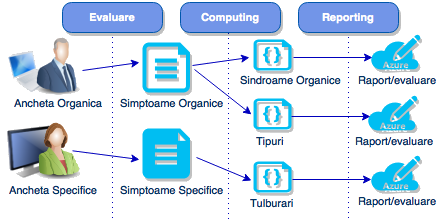
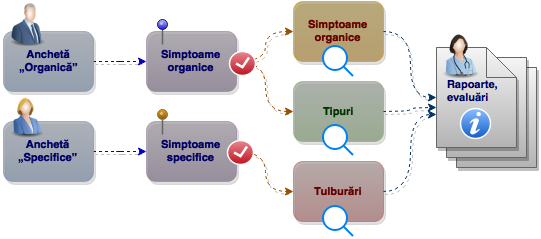
sead

diff --git a/seaddir.html b/seaddir.html
@@ -361,8 +361,8 @@ function intoTable(s, idx) {
 
 function about() {
 	var d = '<DIV style="font:normal 11pt Calibri,Arial; color:#448;padding:4px;">Aceasta aplicatie se bazeaza pe:<br><br><br>DSM–IV TR diagnostic criteria,<BR>American Psychiatric Association<br><br>';
-	d += 'Schema simplificata a aplicatiei:<br><br>';
-	d += '<img style="margin-left:24px;" src="res/sead.png" /><br><br>';
+	d += 'Schema simplificata a aplicatiei:<br>';
+	d += '<img style="margin-left:24px;" src="res/sead.svg" /><br>';
 	d += 'Autor:<BR>Diana Topa, membru al Asociatiei Criminaliste...';
 	curTable = -4;
 	id('out').innerHTML = d;
@@ -491,7 +491,7 @@ var Mng = {
         t.appendChild(b);
         t.oncontextmenu = function(e) { Mng.rClick(e); };
         var D = document.createElement('DIV'); D.contentEditable = true; D.className = 'TtlEdit'; D.innerText = tables[this.tableNum].name;
-        D.onblur = function() { Mng.titleEdit(this, false); }; D.onblur = function() { Mng.titleEdit(this, true); };
+        D.onblur = function() { Mng.titleEdit(this, false); }; D.focus = function() { Mng.titleEdit(this, true); };
         var Dret = document.createElement('DIV'); Dret.appendChild(D); Dret.appendChild(t);
         D = id('out'); if(D.hasChildNodes()) D.removeChild( D.firstChild ); D.appendChild(Dret);
         this.table = t; id('tableName').innerText = tables[this.tableNum].name;

diff --git a/sead.html b/sead.html
@@ -381,8 +381,8 @@ function intoTable(s, idx) {
 
 function about() {
 	var d = '<DIV style="font:normal 11pt Calibri,Arial; color:#448;padding:4px;">Aceasta aplicatie se bazeaza pe:<br><br><br>DSM–IV TR diagnostic criteria,<BR>American Psychiatric Association<br><br>';
-	d += 'Schema simplificata a aplicatiei:<br><br>';
-	d += '<img style="margin-left:24px;" src="res/sead.png" /><br><br>';
+	d += 'Schema simplificata a aplicatiei:<br>';
+	d += '<img style="margin-left:24px;" src="res/sead.svg" /><br>';
 	d += 'Autor:<BR>Diana Topa, membru al Asociatiei Criminaliste...';
 	curTable = -4;
 	id('out').innerHTML = d;

diff --git a/server.js b/server.js
@@ -35,14 +35,6 @@ http.createServer(function (req, res) {
 
 function returnFile(fl, resp){ var file = fs.createReadStream(fl); file.pipe(resp); }
 
-/* function returnFile(fl, resp){
-    fs.readFile(fl, function (err,data) {
-      //if (err) return shucher(resp, err);
-      resp.writeHead(200, {'Content-Type': 'text/html' });
-      resp.end(data);
-    });
-}*/
-
 function saveFile( fl, bd, resp ){
 	fs.writeFile(fl, bd, function(err) {
 	  if (err) {
